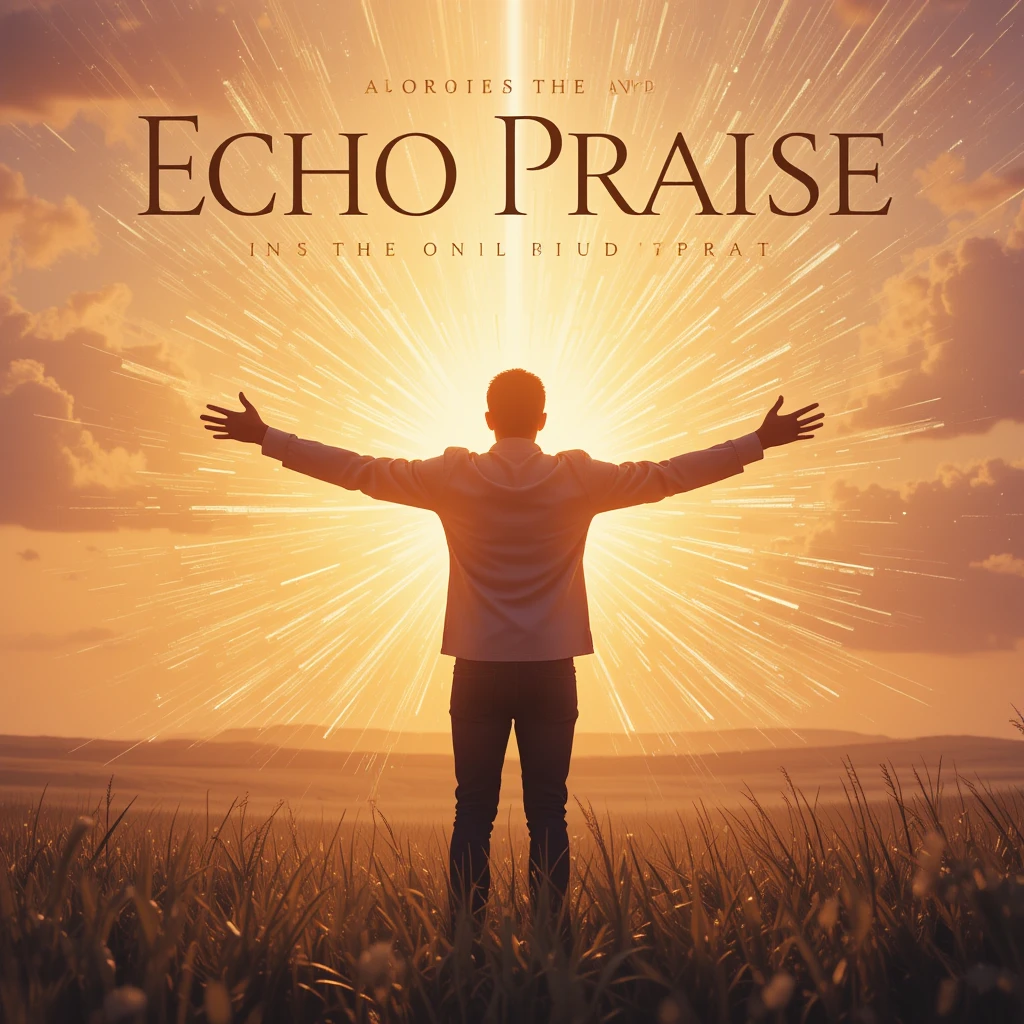
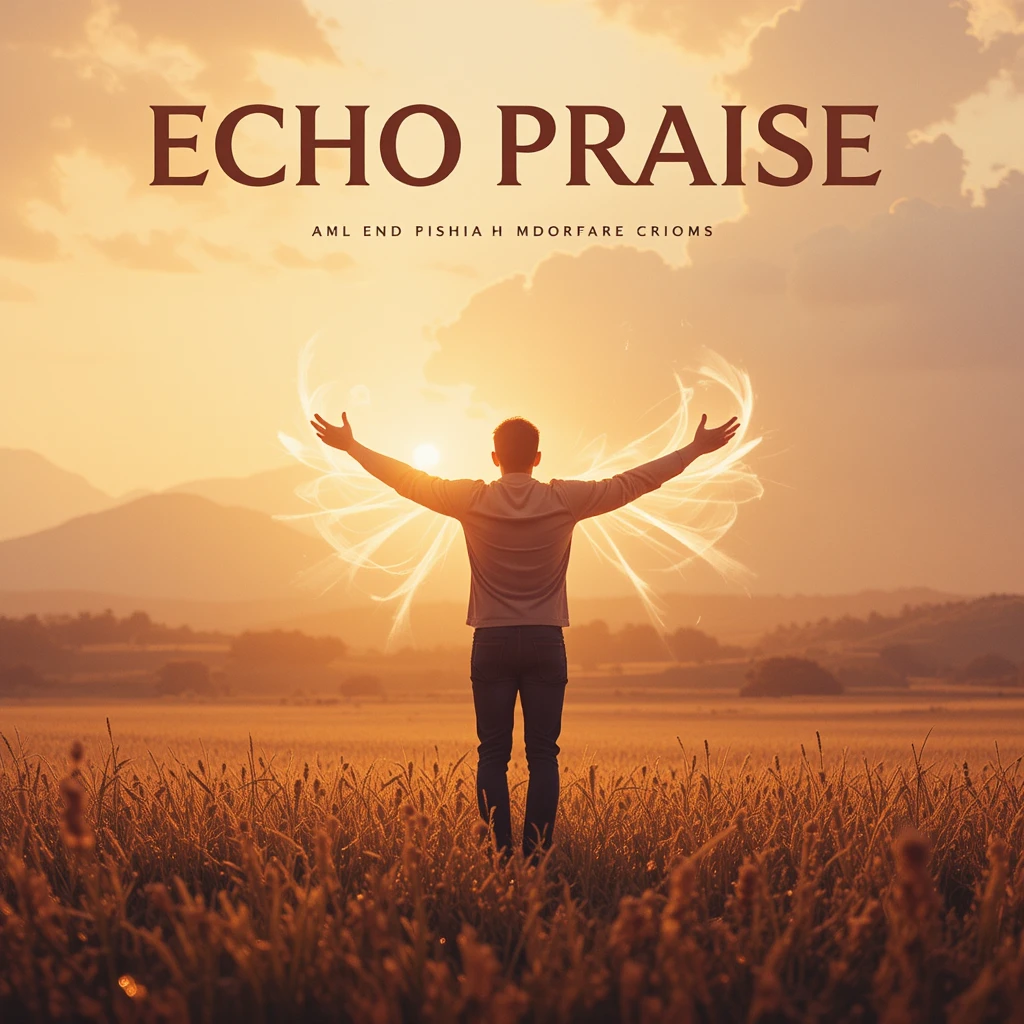
Th3_D5_482

diff --git a/build/web/flutter_service_worker.js b/build/web/flutter_service_worker.js
@@ -3,9 +3,9 @@ const MANIFEST = 'flutter-app-manifest';
 const TEMP = 'flutter-temp-cache';
 const CACHE_NAME = 'flutter-app-cache';
 
-const RESOURCES = {"assets/AssetManifest.bin": "2033fb67b33300dcc34e864e9a8fa3ba",
-"assets/AssetManifest.bin.json": "f4c41df0548b915af7f292fb95d5bc66",
-"assets/AssetManifest.json": "e0eec1baa7880625ba0a328b2df9633c",
+const RESOURCES = {"assets/AssetManifest.bin": "97551980b8af5bcd2b1b2b84927385c9",
+"assets/AssetManifest.bin.json": "f310eb2b61f526bb8b957233a4539937",
+"assets/AssetManifest.json": "3bd1874d007092d2433af306c63a3bdf",
 "assets/assets/images/album/10,000_reasons.png": "779f2f40ef0204d2b5ca7786aa48de0f",
 "assets/assets/images/album/all_sons_and_daughters.png": "3b6d7059877ec58f3a5d23b776c8790d",
 "assets/assets/images/album/always.png": "80fc3020544807e3deca8fa8309b6cb5",
@@ -36,9 +36,9 @@ const RESOURCES = {"assets/AssetManifest.bin": "2033fb67b33300dcc34e864e9a8fa3ba
 "assets/assets/images/songs/how_great_is_our_god.png": "cf99888efc940a28f2b2ab54fa08694d",
 "assets/assets/images/songs/reckless_love.png": "9b04f0d91134de76574ecd832033c930",
 "assets/assets/images/songs/way_maker.png": "c464b72ea269576b4473a2e39bce224d",
-"assets/assets/images/top_mixes/echo_praise.png": "80d9905d971c10b9325381496d37edcb",
+"assets/assets/images/top_mixes/echo_praise.png": "24f03a24a7176ddf392da3c9a8aaf91c",
 "assets/assets/images/top_mixes/hearts_united.png": "fff583bead6cc060a192ecf310230432",
-"assets/assets/images/top_mixes/kingdom_keys.png": "e276bbf35a99ed659e34af126b4d7049",
+"assets/assets/images/top_mixes/keydom_keys.png": "e276bbf35a99ed659e34af126b4d7049",
 "assets/assets/images/top_mixes/selah_sessions.png": "ad64731bccbeb4462e0dbf08505efb26",
 "assets/assets/images/top_mixes/upper_room.png": "65c1d95e0d4b707a1dacf6dd35e5c548",
 "assets/FontManifest.json": "97c2528ecc2fbf4093965257fdba1854",
@@ -63,7 +63,7 @@ const RESOURCES = {"assets/AssetManifest.bin": "2033fb67b33300dcc34e864e9a8fa3ba
 "canvaskit/skwasm_heavy.wasm": "8034ad26ba2485dab2fd49bdd786837b",
 "favicon.png": "5dcef449791fa27946b3d35ad8803796",
 "flutter.js": "888483df48293866f9f41d3d9274a779",
-"flutter_bootstrap.js": "81340030e6fee602982103f715dca553",
+"flutter_bootstrap.js": "61da8a410afc958cad6dd996bce8fbac",
 "icons/Icon-192.png": "ac9a721a12bbc803b44f645561ecb1e1",
 "icons/Icon-512.png": "96e752610906ba2a93c65f8abe1645f1",
 "icons/Icon-maskable-192.png": "c457ef57daa1d16f64b27b786ec2ea3c",

diff --git a/build/web/flutter_bootstrap.js b/build/web/flutter_bootstrap.js
@@ -38,6 +38,6 @@ _flutter.buildConfig = {"engineRevision":"ddf47dd3ff96dbde6d9c614db0d7f019d7c7a2
 
 _flutter.loader.load({
   serviceWorkerSettings: {
-    serviceWorkerVersion: "145372838"
+    serviceWorkerVersion: "38244896"
   }
 });
